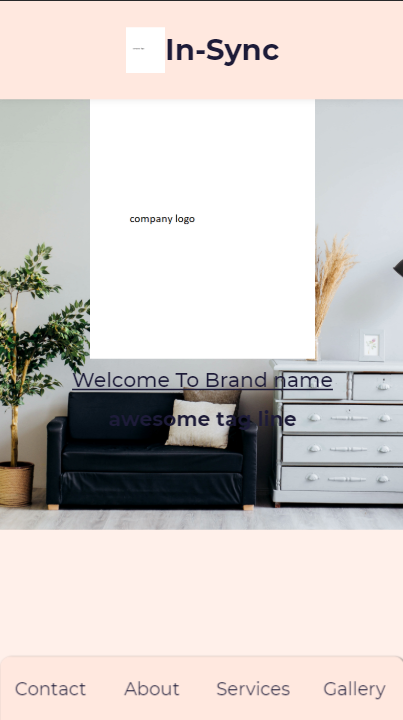
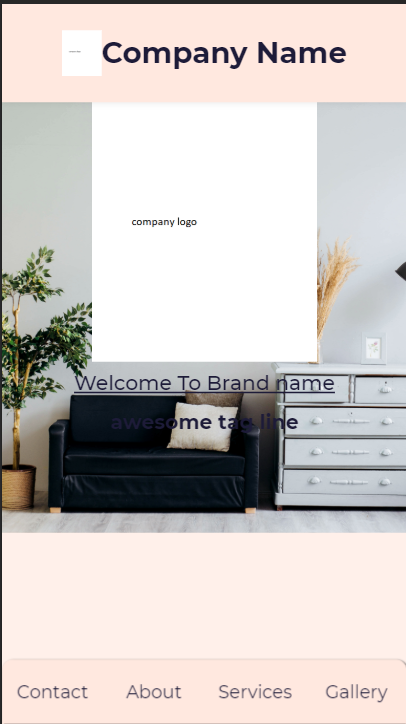
finally final commit

diff --git a/public/index.html b/public/index.html
@@ -5,7 +5,7 @@
     <link rel="icon" href="%PUBLIC_URL%/LOGO.png" />
     <meta name="viewport" content="width=device-width, initial-scale=1" />
     <meta name="theme-color" content="#ffe8df" />
-    <meta name="description" content="In-Sync Group Landing Page" />
+    <meta name="description" content="Landing Page" />
     <link rel="apple-touch-icon" href="%PUBLIC_URL%/LOGO.png" />
     <!--
       manifest.json provides metadata used when your web app is installed on a
@@ -21,7 +21,7 @@
       work correctly both with client-side routing and a non-root public URL.
       Learn how to configure a non-root public URL by running `npm run build`.
     -->
-    <title>In-Sync Group</title>
+    <title>company name</title>
   </head>
   <body>
     <style>

diff --git a/src/components/layout.js b/src/components/layout.js
@@ -19,7 +19,7 @@ const Layout = ({ children }) => {
   const { pathname } = useLocation();
   return (
     <>
-      <Header siteTitle={"In-Sync"} />
+      <Header siteTitle={"Company Name"} />
       <Main>{children}</Main>
       {pathname === "/" ? null : <Footer />}
       <BottomNav />
